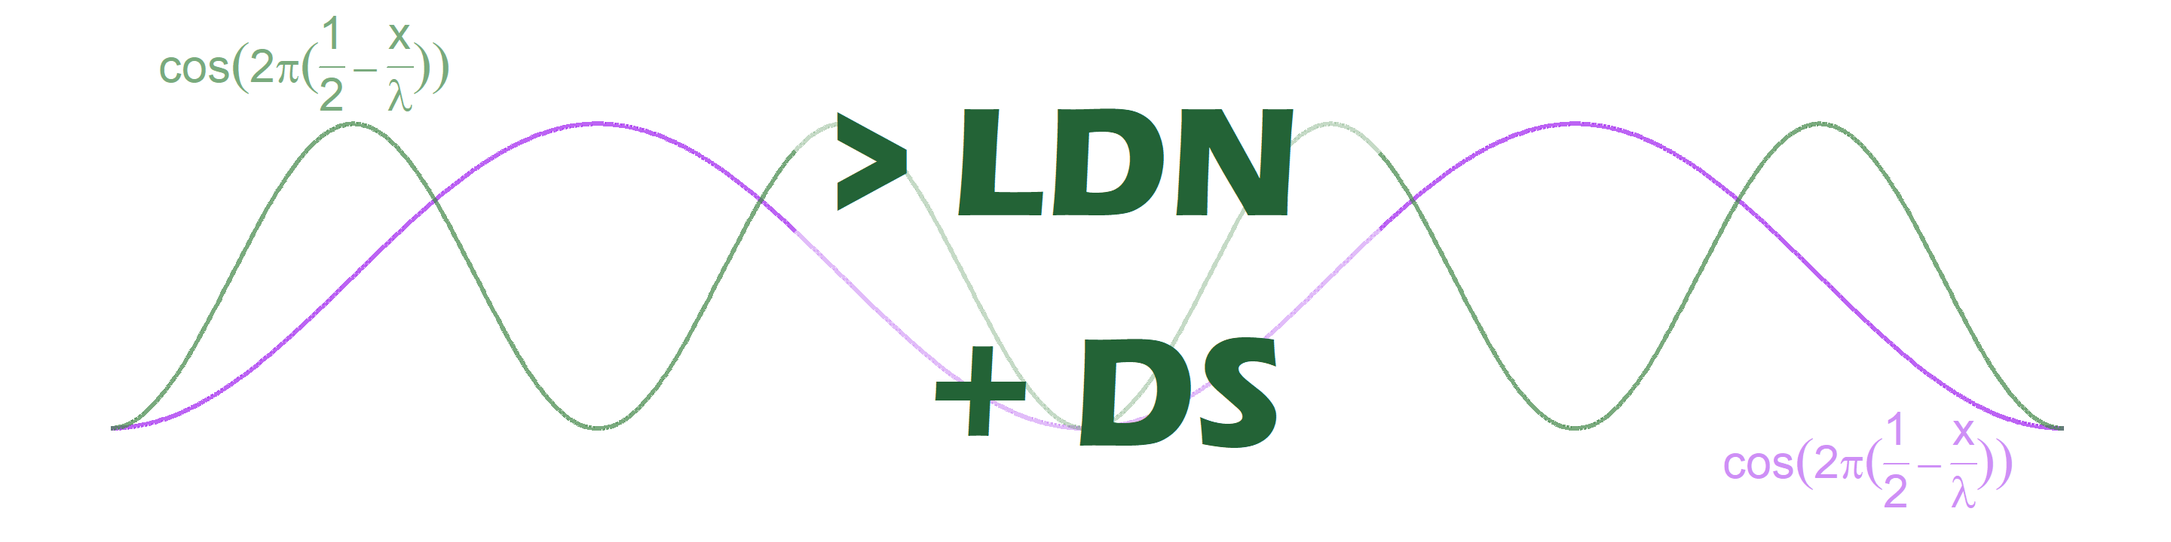
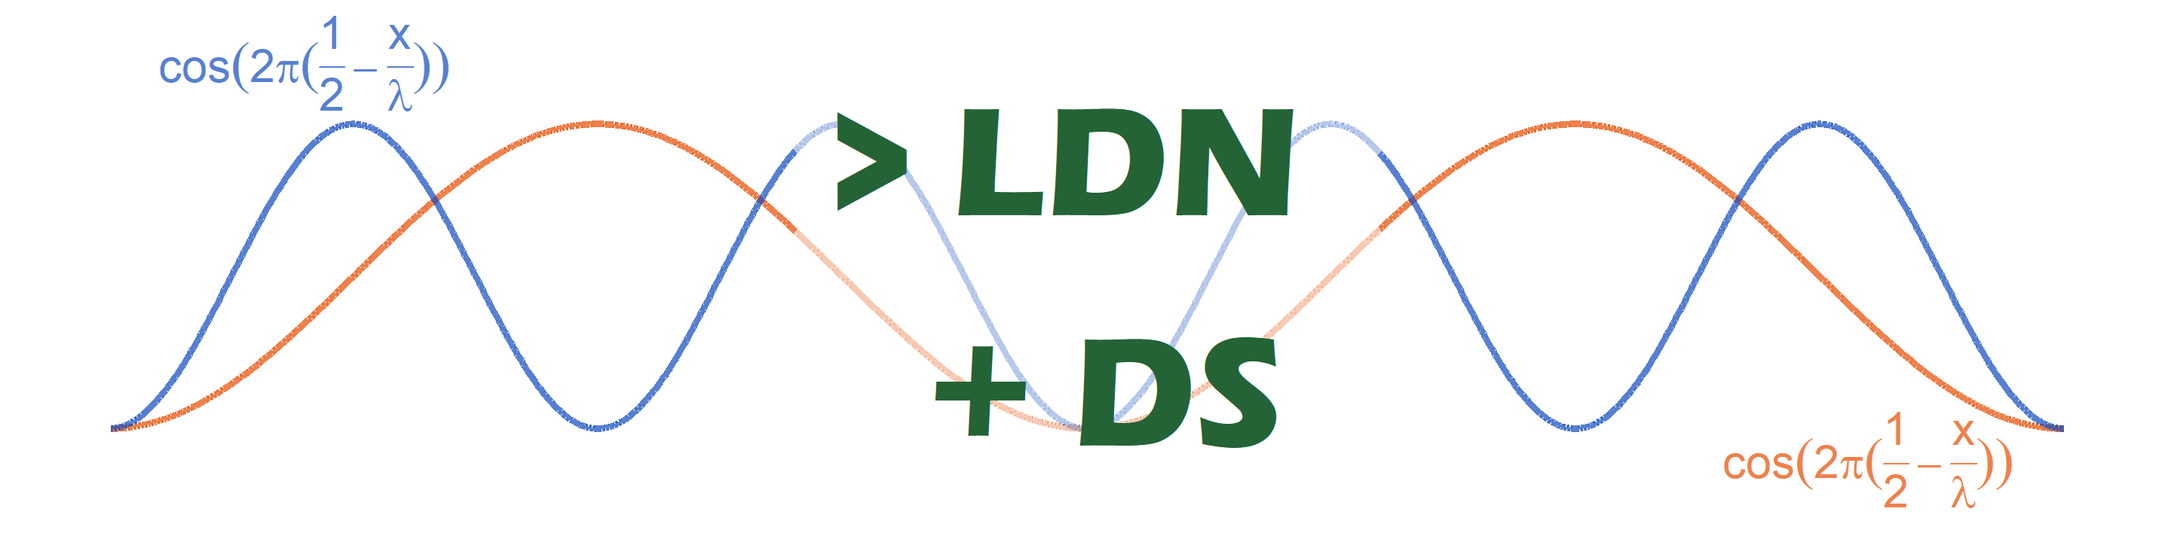
alteracoes de layout da pagina

diff --git a/docs/posts/2021-03-05-imagementrada/index.html b/docs/posts/2021-03-05-imagementrada/index.html
@@ -113,12 +113,12 @@ code span.wa { color: #5e5e5e; font-style: italic; } /* Warning */
   <!--radix_placeholder_rmarkdown_metadata-->
 
 <script type="text/json" id="radix-rmarkdown-metadata">
-{"type":"list","attributes":{"names":{"type":"character","attributes":{},"value":["title","description","author","date","output","draft","tags","categories"]}},"value":[{"type":"character","attributes":{},"value":["Imagem de entrada"]},{"type":"character","attributes":{},"value":["Descreve a imagem de entrada da pagina inicial."]},{"type":"list","attributes":{},"value":[{"type":"list","attributes":{"names":{"type":"character","attributes":{},"value":["name","url"]}},"value":[{"type":"character","attributes":{},"value":["Leonardo Donato Nunes"]},{"type":"character","attributes":{},"value":["https://github.com/LeonardoDonatoNunes"]}]}]},{"type":"character","attributes":{},"value":["February 16, 2021"]},{"type":"list","attributes":{"names":{"type":"character","attributes":{},"value":["distill::distill_article"]}},"value":[{"type":"list","attributes":{"names":{"type":"character","attributes":{},"value":["self_contained","toc","css"]}},"value":[{"type":"logical","attributes":{},"value":[false]},{"type":"logical","attributes":{},"value":[false]},{"type":"character","attributes":{},"value":["../../styles.css"]}]}]},{"type":"logical","attributes":{},"value":[false]},{"type":"character","attributes":{},"value":["R","GGplot2"]},{"type":"character","attributes":{},"value":["GGplot2","R","Visualizacao"]}]}
+{"type":"list","attributes":{"names":{"type":"character","attributes":{},"value":["title","description","author","date","output","draft","tags","categories"]}},"value":[{"type":"character","attributes":{},"value":["Imagem de entrada"]},{"type":"character","attributes":{},"value":["Descreve a imagem de entrada da pagina inicial."]},{"type":"list","attributes":{},"value":[{"type":"list","attributes":{"names":{"type":"character","attributes":{},"value":["name","url"]}},"value":[{"type":"character","attributes":{},"value":["Leonardo Donato Nunes"]},{"type":"character","attributes":{},"value":["https://github.com/LeonardoDonatoNunes"]}]}]},{"type":"character","attributes":{},"value":["fevereiro 16, 2021"]},{"type":"list","attributes":{"names":{"type":"character","attributes":{},"value":["distill::distill_article"]}},"value":[{"type":"list","attributes":{"names":{"type":"character","attributes":{},"value":["self_contained","toc","css"]}},"value":[{"type":"logical","attributes":{},"value":[false]},{"type":"logical","attributes":{},"value":[false]},{"type":"character","attributes":{},"value":["../../styles.css"]}]}]},{"type":"logical","attributes":{},"value":[false]},{"type":"character","attributes":{},"value":["R","GGplot2"]},{"type":"character","attributes":{},"value":["GGplot2","R","Visualizacao"]}]}
 </script>
 <!--/radix_placeholder_rmarkdown_metadata-->
   
   <script type="text/json" id="radix-resource-manifest">
-  {"type":"character","attributes":{},"value":["imagementrada_files/anchor-4.2.2/anchor.min.js","imagementrada_files/bowser-1.9.3/bowser.min.js","imagementrada_files/distill-2.2.21/template.v2.js","imagementrada_files/figure-html5/figura_entrada_post-1.png","imagementrada_files/header-attrs-2.6/header-attrs.js","imagementrada_files/jquery-1.11.3/jquery.min.js","imagementrada_files/popper-2.6.0/popper.min.js","imagementrada_files/tippy-6.2.7/tippy-bundle.umd.min.js","imagementrada_files/tippy-6.2.7/tippy-light-border.css","imagementrada_files/tippy-6.2.7/tippy.css","imagementrada_files/tippy-6.2.7/tippy.umd.min.js","imagementrada_files/webcomponents-2.0.0/webcomponents.js"]}
+  {"type":"character","attributes":{},"value":["imagementrada_files/anchor-4.2.2/anchor.min.js","imagementrada_files/bowser-1.9.3/bowser.min.js","imagementrada_files/distill-2.2.21/template.v2.js","imagementrada_files/figure-html5/figura_entrada_post-1.png","imagementrada_files/header-attrs-2.6/header-attrs.js","imagementrada_files/header-attrs-2.7/header-attrs.js","imagementrada_files/jquery-1.11.3/jquery.min.js","imagementrada_files/popper-2.6.0/popper.min.js","imagementrada_files/tippy-6.2.7/tippy-bundle.umd.min.js","imagementrada_files/tippy-6.2.7/tippy-light-border.css","imagementrada_files/tippy-6.2.7/tippy.css","imagementrada_files/tippy-6.2.7/tippy.umd.min.js","imagementrada_files/webcomponents-2.0.0/webcomponents.js"]}
   </script>
   <!--radix_placeholder_navigation_in_header-->
 <meta name="distill:offset" content="../.."/>
@@ -2042,7 +2042,7 @@ document.addEventListener('DOMContentLoaded', function() {
 </script>
 
 <!--/radix_placeholder_distill-->
-  <script src="../../site_libs/header-attrs-2.6/header-attrs.js"></script>
+  <script src="../../site_libs/header-attrs-2.7/header-attrs.js"></script>
   <script src="../../site_libs/jquery-1.11.3/jquery.min.js"></script>
   <script src="../../site_libs/popper-2.6.0/popper.min.js"></script>
   <link href="../../site_libs/tippy-6.2.7/tippy.css" rel="stylesheet" />
@@ -2234,7 +2234,10 @@ d-article h3 {
 
 .posts-list .post-preview .thumbnail img { width: 80%; display: block; }
 
-
+/* blocos de codigos */ 
+d-article div.sourceCode pre {
+    background: #f2f2f2;
+}
 
 </style>
 <!--/radix_placeholder_site_in_header-->
@@ -2300,7 +2303,7 @@ d-article h3 {
 <div class="d-byline">
   Leonardo Donato Nunes <a href="https://github.com/LeonardoDonatoNunes" class="uri">https://github.com/LeonardoDonatoNunes</a> 
   
-<br/>February 16, 2021
+<br/>fevereiro 16, 2021
 </div>
 
 <div class="d-article">
@@ -2324,6 +2327,9 @@ d-article h3 {
 <span class='va'>z</span> <span class='op'>=</span>  <span class='fu'><a href='https://rdrr.io/r/base/Trig.html'>cos</a></span><span class='op'>(</span><span class='fl'>2</span><span class='op'>*</span><span class='va'>pi</span><span class='op'>*</span><span class='op'>(</span><span class='fl'>1</span><span class='op'>/</span><span class='fl'>2</span> <span class='op'>-</span> <span class='va'>x</span><span class='op'>/</span><span class='fl'>250</span><span class='op'>)</span><span class='op'>)</span>
 <span class='va'>legenda_x</span> <span class='op'>&lt;-</span> <span class='st'>"cos(2 * pi * (frac(1,2) - frac(x,lambda)))"</span>
 <span class='va'>legenda_z</span> <span class='op'>&lt;-</span> <span class='st'>"cos(2 * pi * (frac(1,2) - frac(x,lambda)))"</span>
+
+<span class='va'>cor_linha_1</span> <span class='op'>&lt;-</span> <span class='st'>'#E84B00'</span>
+<span class='va'>cor_linha_2</span> <span class='op'>&lt;-</span> <span class='st'>'#0F4ABF'</span>
 </code></pre>
 </div>
 </div>
@@ -2335,19 +2341,19 @@ d-article h3 {
                 <span class='fu'><a href='https://ggplot2.tidyverse.org/reference/geom_point.html'>geom_point</a></span><span class='op'>(</span><span class='fu'><a href='https://ggplot2.tidyverse.org/reference/aes.html'>aes</a></span><span class='op'>(</span>x <span class='op'>=</span> <span class='fl'>100</span>, y <span class='op'>=</span> <span class='fl'>1.6</span><span class='op'>)</span>, col <span class='op'>=</span> <span class='st'>"transparent"</span><span class='op'>)</span> <span class='op'>+</span>
                 <span class='fu'><a href='https://ggplot2.tidyverse.org/reference/geom_point.html'>geom_point</a></span><span class='op'>(</span><span class='fu'><a href='https://ggplot2.tidyverse.org/reference/aes.html'>aes</a></span><span class='op'>(</span>x <span class='op'>=</span> <span class='fl'>100</span>, y <span class='op'>=</span> <span class='op'>-</span><span class='fl'>1.5</span><span class='op'>)</span>, col <span class='op'>=</span> <span class='st'>"transparent"</span><span class='op'>)</span> <span class='op'>+</span>
  
-                <span class='fu'><a href='https://ggplot2.tidyverse.org/reference/geom_path.html'>geom_line</a></span><span class='op'>(</span><span class='fu'><a href='https://ggplot2.tidyverse.org/reference/aes.html'>aes</a></span><span class='op'>(</span>x <span class='op'>=</span> <span class='va'>x</span>, y <span class='op'>=</span> <span class='va'>y</span><span class='op'>)</span>, lwd <span class='op'>=</span> <span class='fl'>1.2</span>, 
+                <span class='fu'><a href='https://ggplot2.tidyverse.org/reference/geom_path.html'>geom_line</a></span><span class='op'>(</span><span class='fu'><a href='https://ggplot2.tidyverse.org/reference/aes.html'>aes</a></span><span class='op'>(</span>x <span class='op'>=</span> <span class='va'>x</span>, y <span class='op'>=</span> <span class='va'>y</span><span class='op'>)</span>, lwd <span class='op'>=</span> <span class='fl'>1.6</span>, 
                           col <span class='op'>=</span> <span class='fu'><a href='https://rdrr.io/r/base/ifelse.html'>ifelse</a></span><span class='op'>(</span><span class='va'>x</span> <span class='op'>&gt;</span> <span class='fl'>350</span> <span class='op'>&amp;</span> <span class='va'>x</span> <span class='op'>&lt;</span> <span class='fl'>650</span>,
-                                       <span class='fu'><a href='https://scales.r-lib.org//reference/alpha.html'>alpha</a></span><span class='op'>(</span><span class='st'>"purple"</span>, alpha <span class='op'>=</span> <span class='fl'>0.3</span><span class='op'>)</span>, 
-                                       <span class='fu'><a href='https://scales.r-lib.org//reference/alpha.html'>alpha</a></span><span class='op'>(</span><span class='st'>"purple"</span>, alpha <span class='op'>=</span> <span class='fl'>0.7</span><span class='op'>)</span><span class='op'>)</span><span class='op'>)</span> <span class='op'>+</span>
+                                       <span class='fu'><a href='https://scales.r-lib.org//reference/alpha.html'>alpha</a></span><span class='op'>(</span><span class='va'>cor_linha_1</span>, alpha <span class='op'>=</span> <span class='fl'>0.3</span><span class='op'>)</span>, 
+                                       <span class='fu'><a href='https://scales.r-lib.org//reference/alpha.html'>alpha</a></span><span class='op'>(</span><span class='va'>cor_linha_1</span>, alpha <span class='op'>=</span> <span class='fl'>0.7</span><span class='op'>)</span><span class='op'>)</span><span class='op'>)</span> <span class='op'>+</span>
                 <span class='fu'><a href='https://ggplot2.tidyverse.org/reference/geom_text.html'>geom_text</a></span><span class='op'>(</span><span class='fu'><a href='https://ggplot2.tidyverse.org/reference/aes.html'>aes</a></span><span class='op'>(</span>x <span class='op'>=</span> <span class='fl'>900</span>, y <span class='op'>=</span> <span class='op'>-</span><span class='fl'>1.2</span>, label <span class='op'>=</span> <span class='va'>legenda_x</span><span class='op'>)</span>, 
-                          parse <span class='op'>=</span> <span class='cn'>TRUE</span>, col <span class='op'>=</span> <span class='fu'><a href='https://scales.r-lib.org//reference/alpha.html'>alpha</a></span><span class='op'>(</span><span class='st'>"purple"</span>, alpha <span class='op'>=</span> <span class='fl'>0.5</span><span class='op'>)</span>, size <span class='op'>=</span> <span class='fl'>8</span><span class='op'>)</span> <span class='op'>+</span>
+                          parse <span class='op'>=</span> <span class='cn'>TRUE</span>, col <span class='op'>=</span> <span class='fu'><a href='https://scales.r-lib.org//reference/alpha.html'>alpha</a></span><span class='op'>(</span><span class='va'>cor_linha_1</span>, alpha <span class='op'>=</span> <span class='fl'>0.7</span><span class='op'>)</span>, size <span class='op'>=</span> <span class='fl'>8</span><span class='op'>)</span> <span class='op'>+</span>
                 
-                <span class='fu'><a href='https://ggplot2.tidyverse.org/reference/geom_path.html'>geom_line</a></span><span class='op'>(</span><span class='fu'><a href='https://ggplot2.tidyverse.org/reference/aes.html'>aes</a></span><span class='op'>(</span>x <span class='op'>=</span> <span class='va'>x</span>, y <span class='op'>=</span> <span class='va'>z</span><span class='op'>)</span>, lwd <span class='op'>=</span> <span class='fl'>1.2</span>, 
+                <span class='fu'><a href='https://ggplot2.tidyverse.org/reference/geom_path.html'>geom_line</a></span><span class='op'>(</span><span class='fu'><a href='https://ggplot2.tidyverse.org/reference/aes.html'>aes</a></span><span class='op'>(</span>x <span class='op'>=</span> <span class='va'>x</span>, y <span class='op'>=</span> <span class='va'>z</span><span class='op'>)</span>, lwd <span class='op'>=</span> <span class='fl'>1.6</span>, 
                           col <span class='op'>=</span> <span class='fu'><a href='https://rdrr.io/r/base/ifelse.html'>ifelse</a></span><span class='op'>(</span><span class='va'>x</span> <span class='op'>&gt;</span> <span class='fl'>350</span> <span class='op'>&amp;</span> <span class='va'>x</span> <span class='op'>&lt;</span> <span class='fl'>650</span>,
-                                       <span class='fu'><a href='https://scales.r-lib.org//reference/alpha.html'>alpha</a></span><span class='op'>(</span><span class='st'>"#408546"</span>, alpha <span class='op'>=</span> <span class='fl'>0.3</span><span class='op'>)</span>, 
-                                       <span class='fu'><a href='https://scales.r-lib.org//reference/alpha.html'>alpha</a></span><span class='op'>(</span><span class='st'>"#408546"</span>, alpha <span class='op'>=</span> <span class='fl'>0.7</span><span class='op'>)</span><span class='op'>)</span><span class='op'>)</span> <span class='op'>+</span>
+                                       <span class='fu'><a href='https://scales.r-lib.org//reference/alpha.html'>alpha</a></span><span class='op'>(</span><span class='va'>cor_linha_2</span>, alpha <span class='op'>=</span> <span class='fl'>0.3</span><span class='op'>)</span>, 
+                                       <span class='fu'><a href='https://scales.r-lib.org//reference/alpha.html'>alpha</a></span><span class='op'>(</span><span class='va'>cor_linha_2</span>, alpha <span class='op'>=</span> <span class='fl'>0.7</span><span class='op'>)</span><span class='op'>)</span><span class='op'>)</span> <span class='op'>+</span>
                 <span class='fu'><a href='https://ggplot2.tidyverse.org/reference/geom_text.html'>geom_text</a></span><span class='op'>(</span><span class='fu'><a href='https://ggplot2.tidyverse.org/reference/aes.html'>aes</a></span><span class='op'>(</span>x <span class='op'>=</span> <span class='fl'>100</span>, y <span class='op'>=</span> <span class='fl'>1.4</span>, label <span class='op'>=</span> <span class='va'>legenda_z</span><span class='op'>)</span>, parse <span class='op'>=</span> <span class='cn'>TRUE</span>,
-                          col <span class='op'>=</span> <span class='fu'><a href='https://scales.r-lib.org//reference/alpha.html'>alpha</a></span><span class='op'>(</span><span class='st'>"#408546"</span>, alpha <span class='op'>=</span> <span class='fl'>0.7</span><span class='op'>)</span>, size <span class='op'>=</span> <span class='fl'>8</span><span class='op'>)</span> <span class='op'>+</span>
+                          col <span class='op'>=</span> <span class='fu'><a href='https://scales.r-lib.org//reference/alpha.html'>alpha</a></span><span class='op'>(</span><span class='va'>cor_linha_2</span>, alpha <span class='op'>=</span> <span class='fl'>0.7</span><span class='op'>)</span>, size <span class='op'>=</span> <span class='fl'>8</span><span class='op'>)</span> <span class='op'>+</span>
                 
                 <span class='fu'><a href='https://ggplot2.tidyverse.org/reference/annotate.html'>annotate</a></span><span class='op'>(</span><span class='st'>"text"</span>, x <span class='op'>=</span> <span class='fl'>500</span>, y <span class='op'>=</span> <span class='fl'>0</span>, label <span class='op'>=</span> <span class='st'>"&gt; LDN \n + DS"</span>,
                          size <span class='op'>=</span> <span class='fl'>28</span>, family <span class='op'>=</span> <span class='st'>"Eras Bold ITC"</span>, col <span class='op'>=</span> <span class='st'>"#236336"</span><span class='op'>)</span> <span class='op'>+</span>

diff --git a/_posts/2021-03-05-imagementrada/imagementrada.html b/_posts/2021-03-05-imagementrada/imagementrada.html
@@ -111,12 +111,12 @@ code span.wa { color: #5e5e5e; font-style: italic; } /* Warning */
   <!--radix_placeholder_rmarkdown_metadata-->
 
   <script type="text/json" id="radix-rmarkdown-metadata">
-  {"type":"list","attributes":{"names":{"type":"character","attributes":{},"value":["title","description","author","date","output","draft","tags","categories"]}},"value":[{"type":"character","attributes":{},"value":["Imagem de entrada"]},{"type":"character","attributes":{},"value":["Descreve a imagem de entrada da pagina inicial.\n"]},{"type":"list","attributes":{},"value":[{"type":"list","attributes":{"names":{"type":"character","attributes":{},"value":["name","url"]}},"value":[{"type":"character","attributes":{},"value":["Leonardo Donato Nunes"]},{"type":"character","attributes":{},"value":["https://github.com/LeonardoDonatoNunes"]}]}]},{"type":"character","attributes":{},"value":["February 16, 2021"]},{"type":"list","attributes":{"names":{"type":"character","attributes":{},"value":["distill::distill_article"]}},"value":[{"type":"list","attributes":{"names":{"type":"character","attributes":{},"value":["self_contained","toc","css"]}},"value":[{"type":"logical","attributes":{},"value":[false]},{"type":"logical","attributes":{},"value":[false]},{"type":"character","attributes":{},"value":["../../styles.css"]}]}]},{"type":"logical","attributes":{},"value":[false]},{"type":"character","attributes":{},"value":["R","GGplot2"]},{"type":"character","attributes":{},"value":["GGplot2","R","Visualizacao"]}]}
+  {"type":"list","attributes":{"names":{"type":"character","attributes":{},"value":["title","description","author","date","output","draft","tags","categories"]}},"value":[{"type":"character","attributes":{},"value":["Imagem de entrada"]},{"type":"character","attributes":{},"value":["Descreve a imagem de entrada da pagina inicial.\n"]},{"type":"list","attributes":{},"value":[{"type":"list","attributes":{"names":{"type":"character","attributes":{},"value":["name","url"]}},"value":[{"type":"character","attributes":{},"value":["Leonardo Donato Nunes"]},{"type":"character","attributes":{},"value":["https://github.com/LeonardoDonatoNunes"]}]}]},{"type":"character","attributes":{},"value":["fevereiro 16, 2021"]},{"type":"list","attributes":{"names":{"type":"character","attributes":{},"value":["distill::distill_article"]}},"value":[{"type":"list","attributes":{"names":{"type":"character","attributes":{},"value":["self_contained","toc","css"]}},"value":[{"type":"logical","attributes":{},"value":[false]},{"type":"logical","attributes":{},"value":[false]},{"type":"character","attributes":{},"value":["../../styles.css"]}]}]},{"type":"logical","attributes":{},"value":[false]},{"type":"character","attributes":{},"value":["R","GGplot2"]},{"type":"character","attributes":{},"value":["GGplot2","R","Visualizacao"]}]}
   </script>
   <!--/radix_placeholder_rmarkdown_metadata-->
   
   <script type="text/json" id="radix-resource-manifest">
-  {"type":"character","attributes":{},"value":["imagementrada_files/anchor-4.2.2/anchor.min.js","imagementrada_files/bowser-1.9.3/bowser.min.js","imagementrada_files/distill-2.2.21/template.v2.js","imagementrada_files/figure-html5/figura_entrada_post-1.png","imagementrada_files/header-attrs-2.6/header-attrs.js","imagementrada_files/jquery-1.11.3/jquery.min.js","imagementrada_files/popper-2.6.0/popper.min.js","imagementrada_files/tippy-6.2.7/tippy-bundle.umd.min.js","imagementrada_files/tippy-6.2.7/tippy-light-border.css","imagementrada_files/tippy-6.2.7/tippy.css","imagementrada_files/tippy-6.2.7/tippy.umd.min.js","imagementrada_files/webcomponents-2.0.0/webcomponents.js"]}
+  {"type":"character","attributes":{},"value":["imagementrada_files/anchor-4.2.2/anchor.min.js","imagementrada_files/bowser-1.9.3/bowser.min.js","imagementrada_files/distill-2.2.21/template.v2.js","imagementrada_files/figure-html5/figura_entrada_post-1.png","imagementrada_files/header-attrs-2.6/header-attrs.js","imagementrada_files/header-attrs-2.7/header-attrs.js","imagementrada_files/jquery-1.11.3/jquery.min.js","imagementrada_files/popper-2.6.0/popper.min.js","imagementrada_files/tippy-6.2.7/tippy-bundle.umd.min.js","imagementrada_files/tippy-6.2.7/tippy-light-border.css","imagementrada_files/tippy-6.2.7/tippy.css","imagementrada_files/tippy-6.2.7/tippy.umd.min.js","imagementrada_files/webcomponents-2.0.0/webcomponents.js"]}
   </script>
   <!--radix_placeholder_navigation_in_header-->
   <!--/radix_placeholder_navigation_in_header-->
@@ -1434,7 +1434,7 @@ code span.wa { color: #5e5e5e; font-style: italic; } /* Warning */
   </script>
 
   <!--/radix_placeholder_distill-->
-  <script src="imagementrada_files/header-attrs-2.6/header-attrs.js"></script>
+  <script src="imagementrada_files/header-attrs-2.7/header-attrs.js"></script>
   <script src="imagementrada_files/jquery-1.11.3/jquery.min.js"></script>
   <script src="imagementrada_files/popper-2.6.0/popper.min.js"></script>
   <link href="imagementrada_files/tippy-6.2.7/tippy.css" rel="stylesheet" />
@@ -1480,7 +1480,7 @@ code span.wa { color: #5e5e5e; font-style: italic; } /* Warning */
 <div class="d-byline">
   Leonardo Donato Nunes <a href="https://github.com/LeonardoDonatoNunes" class="uri">https://github.com/LeonardoDonatoNunes</a> 
   
-<br/>February 16, 2021
+<br/>fevereiro 16, 2021
 </div>
 
 <div class="d-article">
@@ -1504,6 +1504,9 @@ code span.wa { color: #5e5e5e; font-style: italic; } /* Warning */
 <span class='va'>z</span> <span class='op'>=</span>  <span class='fu'><a href='https://rdrr.io/r/base/Trig.html'>cos</a></span><span class='op'>(</span><span class='fl'>2</span><span class='op'>*</span><span class='va'>pi</span><span class='op'>*</span><span class='op'>(</span><span class='fl'>1</span><span class='op'>/</span><span class='fl'>2</span> <span class='op'>-</span> <span class='va'>x</span><span class='op'>/</span><span class='fl'>250</span><span class='op'>)</span><span class='op'>)</span>
 <span class='va'>legenda_x</span> <span class='op'>&lt;-</span> <span class='st'>"cos(2 * pi * (frac(1,2) - frac(x,lambda)))"</span>
 <span class='va'>legenda_z</span> <span class='op'>&lt;-</span> <span class='st'>"cos(2 * pi * (frac(1,2) - frac(x,lambda)))"</span>
+
+<span class='va'>cor_linha_1</span> <span class='op'>&lt;-</span> <span class='st'>'#E84B00'</span>
+<span class='va'>cor_linha_2</span> <span class='op'>&lt;-</span> <span class='st'>'#0F4ABF'</span>
 </code></pre>
 </div>
 </div>
@@ -1515,19 +1518,19 @@ code span.wa { color: #5e5e5e; font-style: italic; } /* Warning */
                 <span class='fu'><a href='https://ggplot2.tidyverse.org/reference/geom_point.html'>geom_point</a></span><span class='op'>(</span><span class='fu'><a href='https://ggplot2.tidyverse.org/reference/aes.html'>aes</a></span><span class='op'>(</span>x <span class='op'>=</span> <span class='fl'>100</span>, y <span class='op'>=</span> <span class='fl'>1.6</span><span class='op'>)</span>, col <span class='op'>=</span> <span class='st'>"transparent"</span><span class='op'>)</span> <span class='op'>+</span>
                 <span class='fu'><a href='https://ggplot2.tidyverse.org/reference/geom_point.html'>geom_point</a></span><span class='op'>(</span><span class='fu'><a href='https://ggplot2.tidyverse.org/reference/aes.html'>aes</a></span><span class='op'>(</span>x <span class='op'>=</span> <span class='fl'>100</span>, y <span class='op'>=</span> <span class='op'>-</span><span class='fl'>1.5</span><span class='op'>)</span>, col <span class='op'>=</span> <span class='st'>"transparent"</span><span class='op'>)</span> <span class='op'>+</span>
  
-                <span class='fu'><a href='https://ggplot2.tidyverse.org/reference/geom_path.html'>geom_line</a></span><span class='op'>(</span><span class='fu'><a href='https://ggplot2.tidyverse.org/reference/aes.html'>aes</a></span><span class='op'>(</span>x <span class='op'>=</span> <span class='va'>x</span>, y <span class='op'>=</span> <span class='va'>y</span><span class='op'>)</span>, lwd <span class='op'>=</span> <span class='fl'>1.2</span>, 
+                <span class='fu'><a href='https://ggplot2.tidyverse.org/reference/geom_path.html'>geom_line</a></span><span class='op'>(</span><span class='fu'><a href='https://ggplot2.tidyverse.org/reference/aes.html'>aes</a></span><span class='op'>(</span>x <span class='op'>=</span> <span class='va'>x</span>, y <span class='op'>=</span> <span class='va'>y</span><span class='op'>)</span>, lwd <span class='op'>=</span> <span class='fl'>1.6</span>, 
                           col <span class='op'>=</span> <span class='fu'><a href='https://rdrr.io/r/base/ifelse.html'>ifelse</a></span><span class='op'>(</span><span class='va'>x</span> <span class='op'>&gt;</span> <span class='fl'>350</span> <span class='op'>&amp;</span> <span class='va'>x</span> <span class='op'>&lt;</span> <span class='fl'>650</span>,
-                                       <span class='fu'><a href='https://scales.r-lib.org//reference/alpha.html'>alpha</a></span><span class='op'>(</span><span class='st'>"purple"</span>, alpha <span class='op'>=</span> <span class='fl'>0.3</span><span class='op'>)</span>, 
-                                       <span class='fu'><a href='https://scales.r-lib.org//reference/alpha.html'>alpha</a></span><span class='op'>(</span><span class='st'>"purple"</span>, alpha <span class='op'>=</span> <span class='fl'>0.7</span><span class='op'>)</span><span class='op'>)</span><span class='op'>)</span> <span class='op'>+</span>
+                                       <span class='fu'><a href='https://scales.r-lib.org//reference/alpha.html'>alpha</a></span><span class='op'>(</span><span class='va'>cor_linha_1</span>, alpha <span class='op'>=</span> <span class='fl'>0.3</span><span class='op'>)</span>, 
+                                       <span class='fu'><a href='https://scales.r-lib.org//reference/alpha.html'>alpha</a></span><span class='op'>(</span><span class='va'>cor_linha_1</span>, alpha <span class='op'>=</span> <span class='fl'>0.7</span><span class='op'>)</span><span class='op'>)</span><span class='op'>)</span> <span class='op'>+</span>
                 <span class='fu'><a href='https://ggplot2.tidyverse.org/reference/geom_text.html'>geom_text</a></span><span class='op'>(</span><span class='fu'><a href='https://ggplot2.tidyverse.org/reference/aes.html'>aes</a></span><span class='op'>(</span>x <span class='op'>=</span> <span class='fl'>900</span>, y <span class='op'>=</span> <span class='op'>-</span><span class='fl'>1.2</span>, label <span class='op'>=</span> <span class='va'>legenda_x</span><span class='op'>)</span>, 
-                          parse <span class='op'>=</span> <span class='cn'>TRUE</span>, col <span class='op'>=</span> <span class='fu'><a href='https://scales.r-lib.org//reference/alpha.html'>alpha</a></span><span class='op'>(</span><span class='st'>"purple"</span>, alpha <span class='op'>=</span> <span class='fl'>0.5</span><span class='op'>)</span>, size <span class='op'>=</span> <span class='fl'>8</span><span class='op'>)</span> <span class='op'>+</span>
+                          parse <span class='op'>=</span> <span class='cn'>TRUE</span>, col <span class='op'>=</span> <span class='fu'><a href='https://scales.r-lib.org//reference/alpha.html'>alpha</a></span><span class='op'>(</span><span class='va'>cor_linha_1</span>, alpha <span class='op'>=</span> <span class='fl'>0.7</span><span class='op'>)</span>, size <span class='op'>=</span> <span class='fl'>8</span><span class='op'>)</span> <span class='op'>+</span>
                 
-                <span class='fu'><a href='https://ggplot2.tidyverse.org/reference/geom_path.html'>geom_line</a></span><span class='op'>(</span><span class='fu'><a href='https://ggplot2.tidyverse.org/reference/aes.html'>aes</a></span><span class='op'>(</span>x <span class='op'>=</span> <span class='va'>x</span>, y <span class='op'>=</span> <span class='va'>z</span><span class='op'>)</span>, lwd <span class='op'>=</span> <span class='fl'>1.2</span>, 
+                <span class='fu'><a href='https://ggplot2.tidyverse.org/reference/geom_path.html'>geom_line</a></span><span class='op'>(</span><span class='fu'><a href='https://ggplot2.tidyverse.org/reference/aes.html'>aes</a></span><span class='op'>(</span>x <span class='op'>=</span> <span class='va'>x</span>, y <span class='op'>=</span> <span class='va'>z</span><span class='op'>)</span>, lwd <span class='op'>=</span> <span class='fl'>1.6</span>, 
                           col <span class='op'>=</span> <span class='fu'><a href='https://rdrr.io/r/base/ifelse.html'>ifelse</a></span><span class='op'>(</span><span class='va'>x</span> <span class='op'>&gt;</span> <span class='fl'>350</span> <span class='op'>&amp;</span> <span class='va'>x</span> <span class='op'>&lt;</span> <span class='fl'>650</span>,
-                                       <span class='fu'><a href='https://scales.r-lib.org//reference/alpha.html'>alpha</a></span><span class='op'>(</span><span class='st'>"#408546"</span>, alpha <span class='op'>=</span> <span class='fl'>0.3</span><span class='op'>)</span>, 
-                                       <span class='fu'><a href='https://scales.r-lib.org//reference/alpha.html'>alpha</a></span><span class='op'>(</span><span class='st'>"#408546"</span>, alpha <span class='op'>=</span> <span class='fl'>0.7</span><span class='op'>)</span><span class='op'>)</span><span class='op'>)</span> <span class='op'>+</span>
+                                       <span class='fu'><a href='https://scales.r-lib.org//reference/alpha.html'>alpha</a></span><span class='op'>(</span><span class='va'>cor_linha_2</span>, alpha <span class='op'>=</span> <span class='fl'>0.3</span><span class='op'>)</span>, 
+                                       <span class='fu'><a href='https://scales.r-lib.org//reference/alpha.html'>alpha</a></span><span class='op'>(</span><span class='va'>cor_linha_2</span>, alpha <span class='op'>=</span> <span class='fl'>0.7</span><span class='op'>)</span><span class='op'>)</span><span class='op'>)</span> <span class='op'>+</span>
                 <span class='fu'><a href='https://ggplot2.tidyverse.org/reference/geom_text.html'>geom_text</a></span><span class='op'>(</span><span class='fu'><a href='https://ggplot2.tidyverse.org/reference/aes.html'>aes</a></span><span class='op'>(</span>x <span class='op'>=</span> <span class='fl'>100</span>, y <span class='op'>=</span> <span class='fl'>1.4</span>, label <span class='op'>=</span> <span class='va'>legenda_z</span><span class='op'>)</span>, parse <span class='op'>=</span> <span class='cn'>TRUE</span>,
-                          col <span class='op'>=</span> <span class='fu'><a href='https://scales.r-lib.org//reference/alpha.html'>alpha</a></span><span class='op'>(</span><span class='st'>"#408546"</span>, alpha <span class='op'>=</span> <span class='fl'>0.7</span><span class='op'>)</span>, size <span class='op'>=</span> <span class='fl'>8</span><span class='op'>)</span> <span class='op'>+</span>
+                          col <span class='op'>=</span> <span class='fu'><a href='https://scales.r-lib.org//reference/alpha.html'>alpha</a></span><span class='op'>(</span><span class='va'>cor_linha_2</span>, alpha <span class='op'>=</span> <span class='fl'>0.7</span><span class='op'>)</span>, size <span class='op'>=</span> <span class='fl'>8</span><span class='op'>)</span> <span class='op'>+</span>
                 
                 <span class='fu'><a href='https://ggplot2.tidyverse.org/reference/annotate.html'>annotate</a></span><span class='op'>(</span><span class='st'>"text"</span>, x <span class='op'>=</span> <span class='fl'>500</span>, y <span class='op'>=</span> <span class='fl'>0</span>, label <span class='op'>=</span> <span class='st'>"&gt; LDN \n + DS"</span>,
                          size <span class='op'>=</span> <span class='fl'>28</span>, family <span class='op'>=</span> <span class='st'>"Eras Bold ITC"</span>, col <span class='op'>=</span> <span class='st'>"#236336"</span><span class='op'>)</span> <span class='op'>+</span>

diff --git a/_posts/2021-03-05-imagementrada/imagementrada_files/header-attrs-2.7/header-attrs.js b/_posts/2021-03-05-imagementrada/imagementrada_files/header-attrs-2.7/header-attrs.js
@@ -1,0 +1,12 @@
+// Pandoc 2.9 adds attributes on both header and div. We remove the former (to
+// be compatible with the behavior of Pandoc < 2.8).
+document.addEventListener('DOMContentLoaded', function(e) {
+  var hs = document.querySelectorAll("div.section[class*='level'] > :first-child");
+  var i, h, a;
+  for (i = 0; i < hs.length; i++) {
+    h = hs[i];
+    if (!/^h[1-6]$/i.test(h.tagName)) continue;  // it should be a header h1-h6
+    a = h.attributes;
+    while (a.length > 0) h.removeAttribute(a[0].name);
+  }
+});

diff --git a/docs/posts/2021-03-05-imagementrada/imagementrada_files/header-attrs-2.6/header-attrs.js b/docs/posts/2021-03-05-imagementrada/imagementrada_files/header-attrs-2.6/header-attrs.js
@@ -1,0 +1,12 @@
+// Pandoc 2.9 adds attributes on both header and div. We remove the former (to
+// be compatible with the behavior of Pandoc < 2.8).
+document.addEventListener('DOMContentLoaded', function(e) {
+  var hs = document.querySelectorAll("div.section[class*='level'] > :first-child");
+  var i, h, a;
+  for (i = 0; i < hs.length; i++) {
+    h = hs[i];
+    if (!/^h[1-6]$/i.test(h.tagName)) continue;  // it should be a header h1-h6
+    a = h.attributes;
+    while (a.length > 0) h.removeAttribute(a[0].name);
+  }
+});

diff --git a/docs/index.html b/docs/index.html
@@ -2222,7 +2222,10 @@ code span.wa { color: #5e5e5e; font-style: italic; } /* Warning */
 
   .posts-list .post-preview .thumbnail img { width: 80%; display: block; }
 
-
+  /* blocos de codigos */ 
+  d-article div.sourceCode pre {
+      background: #f2f2f2;
+  }
 
   </style>
   <!--/radix_placeholder_site_in_header-->

diff --git a/docs/posts/2021-03-05-dsxde/index.html b/docs/posts/2021-03-05-dsxde/index.html
@@ -2231,7 +2231,10 @@ d-article h3 {
 
 .posts-list .post-preview .thumbnail img { width: 80%; display: block; }
 
-
+/* blocos de codigos */ 
+d-article div.sourceCode pre {
+    background: #f2f2f2;
+}
 
 </style>
 <!--/radix_placeholder_site_in_header-->

diff --git a/docs/posts/2021-03-05-lgpd/index.html b/docs/posts/2021-03-05-lgpd/index.html
@@ -2234,7 +2234,10 @@ d-article h3 {
 
 .posts-list .post-preview .thumbnail img { width: 80%; display: block; }
 
-
+/* blocos de codigos */ 
+d-article div.sourceCode pre {
+    background: #f2f2f2;
+}
 
 </style>
 <!--/radix_placeholder_site_in_header-->

diff --git a/docs/posts/2021-03-05-materiais/index.html b/docs/posts/2021-03-05-materiais/index.html
@@ -2234,7 +2234,10 @@ d-article h3 {
 
 .posts-list .post-preview .thumbnail img { width: 80%; display: block; }
 
-
+/* blocos de codigos */ 
+d-article div.sourceCode pre {
+    background: #f2f2f2;
+}
 
 </style>
 <!--/radix_placeholder_site_in_header-->

diff --git a/docs/posts/2021-03-05-menodistancia/index.html b/docs/posts/2021-03-05-menodistancia/index.html
@@ -2234,7 +2234,10 @@ d-article h3 {
 
 .posts-list .post-preview .thumbnail img { width: 80%; display: block; }
 
-
+/* blocos de codigos */ 
+d-article div.sourceCode pre {
+    background: #f2f2f2;
+}
 
 </style>
 <!--/radix_placeholder_site_in_header-->

diff --git a/docs/posts/2021-03-05-postgis/index.html b/docs/posts/2021-03-05-postgis/index.html
@@ -2234,7 +2234,10 @@ d-article h3 {
 
 .posts-list .post-preview .thumbnail img { width: 80%; display: block; }
 
-
+/* blocos de codigos */ 
+d-article div.sourceCode pre {
+    background: #f2f2f2;
+}
 
 </style>
 <!--/radix_placeholder_site_in_header-->

diff --git a/docs/posts/2021-03-05-pymongo/index.html b/docs/posts/2021-03-05-pymongo/index.html
@@ -2234,7 +2234,10 @@ d-article h3 {
 
 .posts-list .post-preview .thumbnail img { width: 80%; display: block; }
 
-
+/* blocos de codigos */ 
+d-article div.sourceCode pre {
+    background: #f2f2f2;
+}
 
 </style>
 <!--/radix_placeholder_site_in_header-->

diff --git a/docs/posts/2021-03-05-rmarkdown/index.html b/docs/posts/2021-03-05-rmarkdown/index.html
@@ -2234,7 +2234,10 @@ d-article h3 {
 
 .posts-list .post-preview .thumbnail img { width: 80%; display: block; }
 
-
+/* blocos de codigos */ 
+d-article div.sourceCode pre {
+    background: #f2f2f2;
+}
 
 </style>
 <!--/radix_placeholder_site_in_header-->
